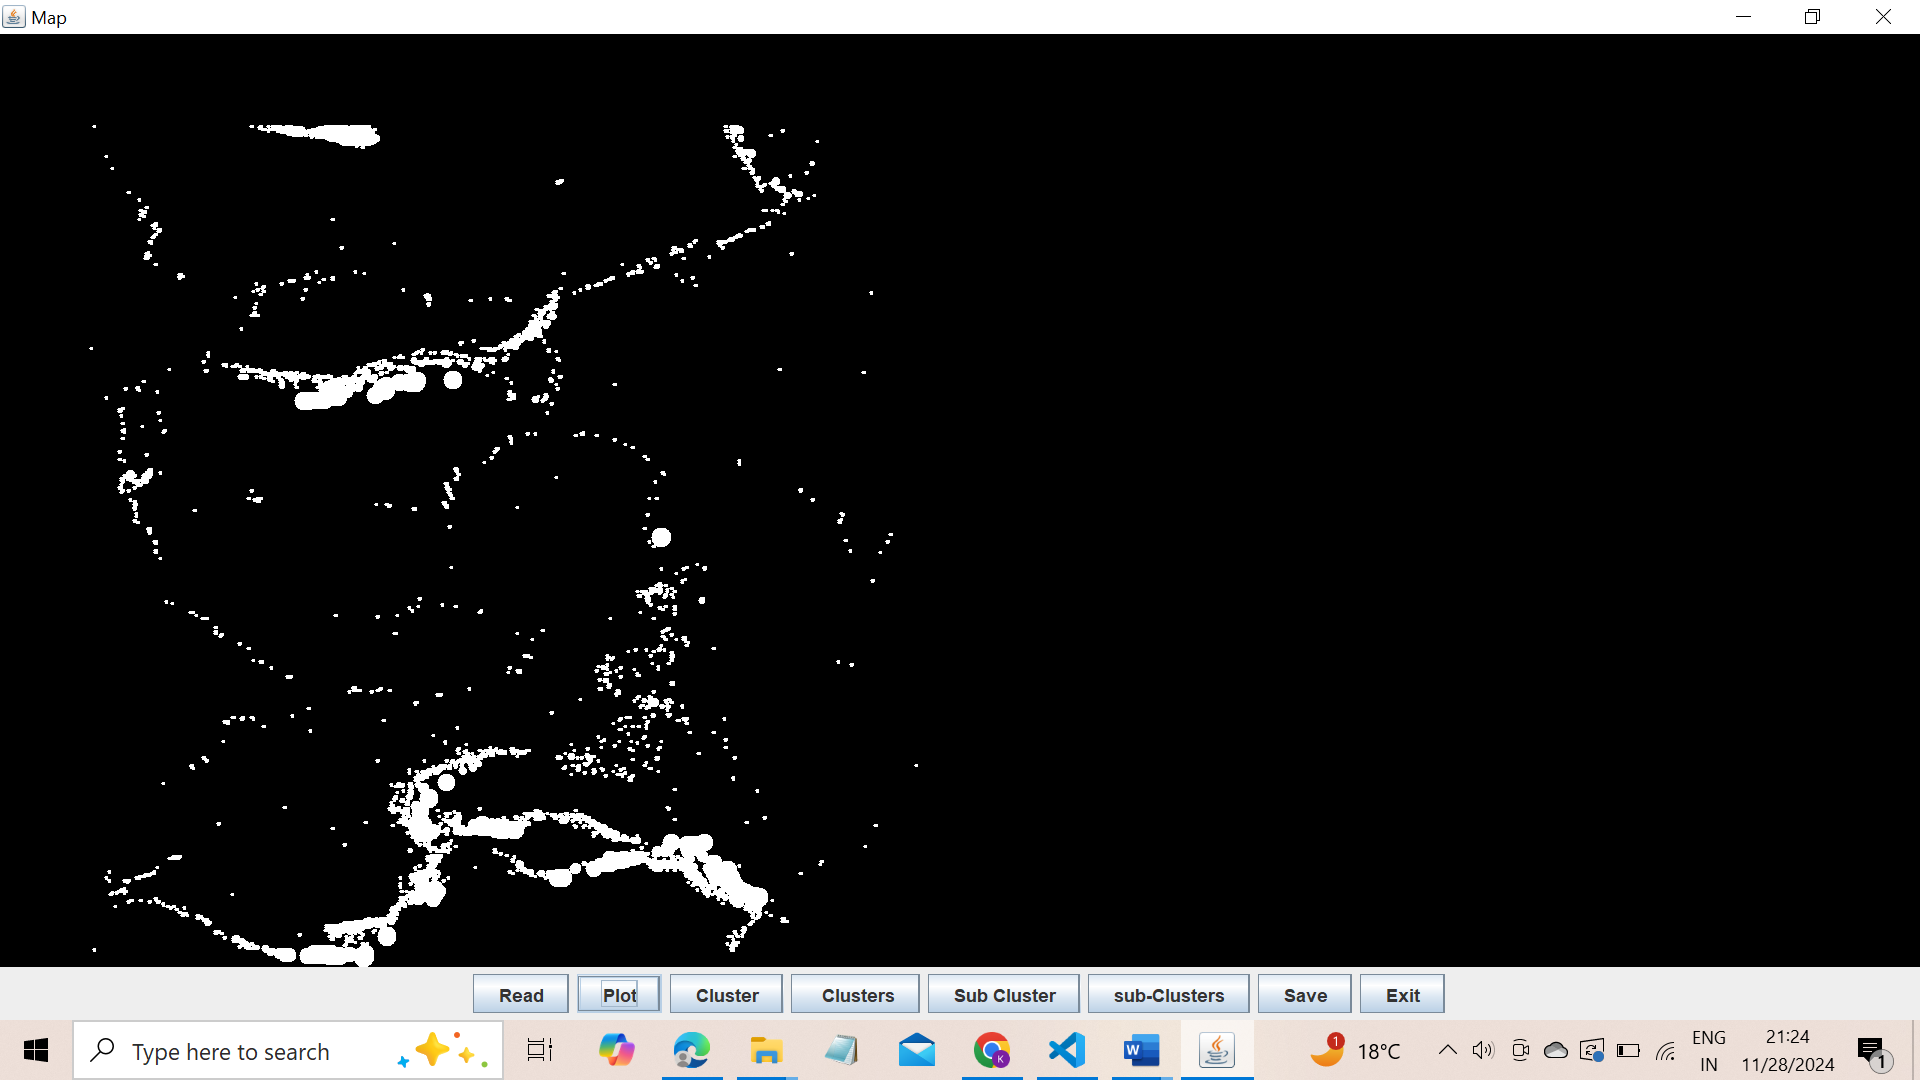
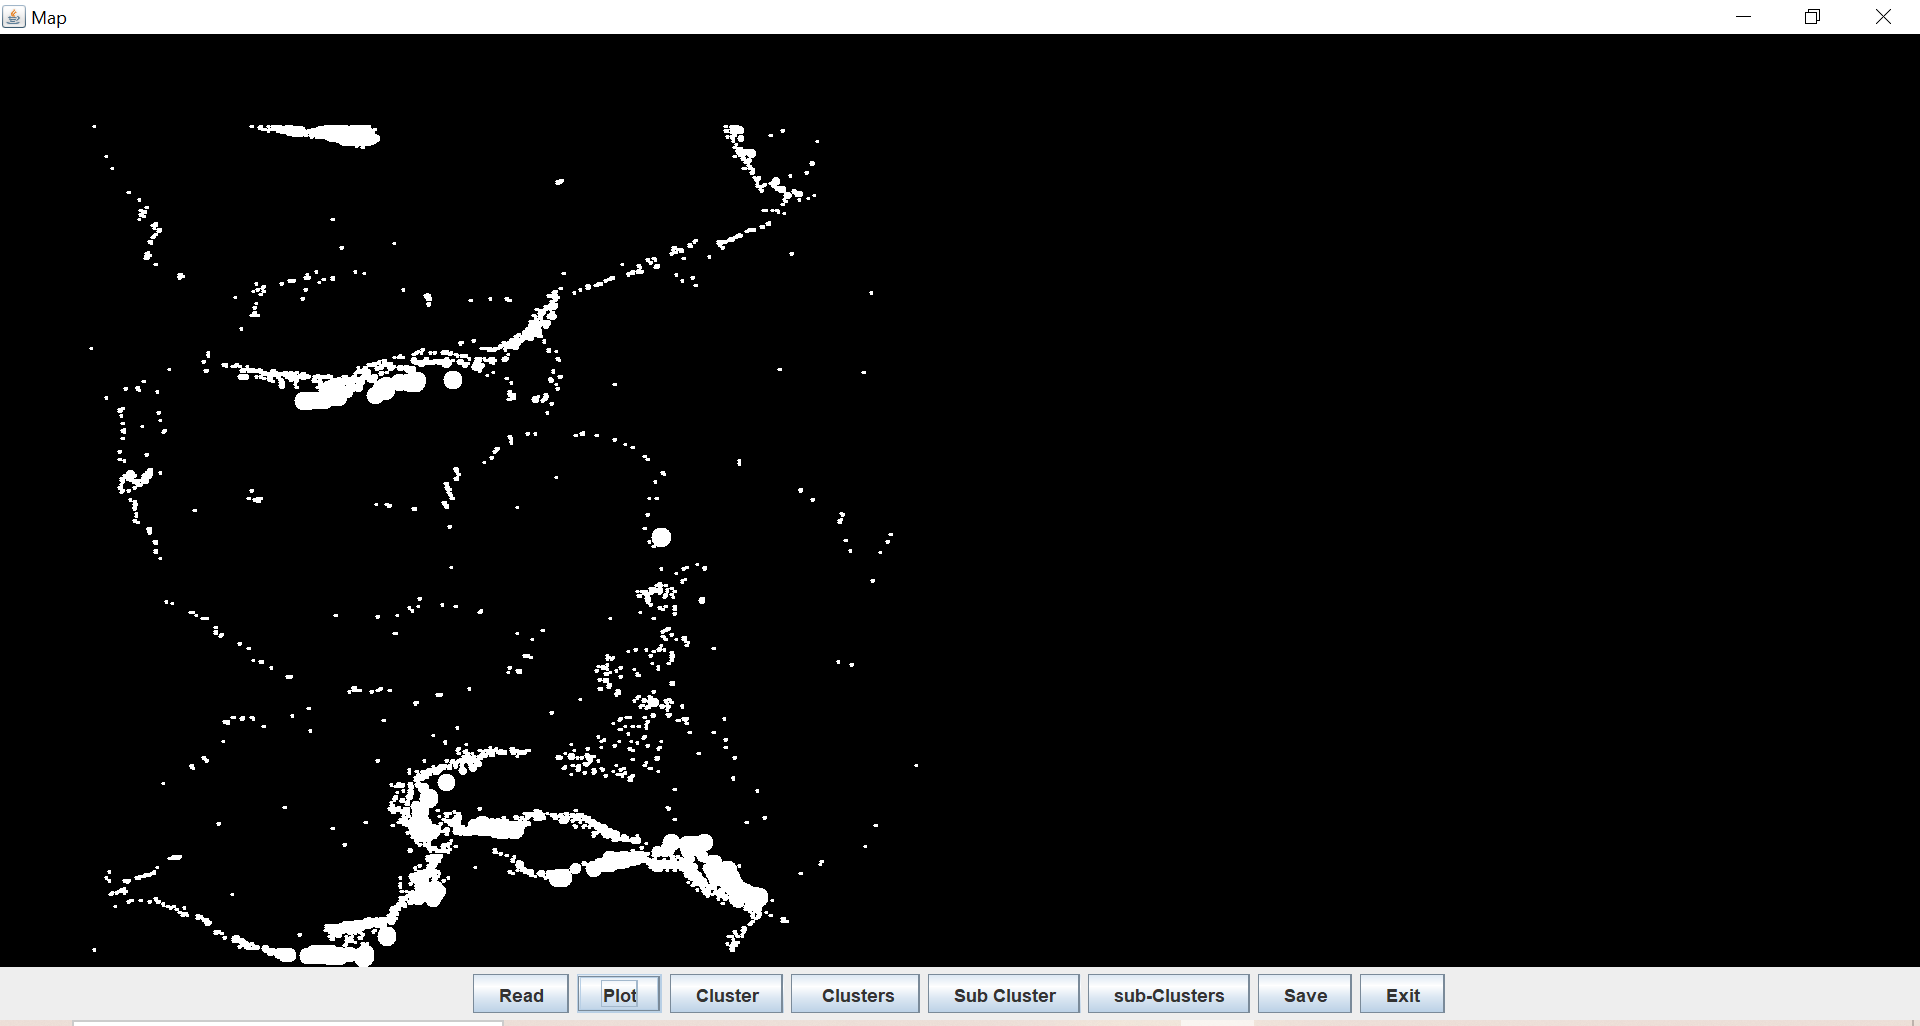
Add README and other changes2

diff --git a/README.md b/README.md
@@ -18,7 +18,7 @@ This Java Swing application reads earthquake data from a CSV file, performs clus
 Lat_lon_plot_4.java # Main Java file with all functionality
 eq_1.csv # Input data file (not provided here)
 plot1.png # Screenshot of raw data plotting
-plot2.png # Screenshot of clustered data visualization
+plot2.png & plot3.png # Screenshot of clustered data visualization
 Result.txt # Output after clustering
 
 ## 🖼 Screenshots
@@ -26,8 +26,9 @@ Result.txt # Output after clustering
 ### ➤ Plot 1: Raw Earthquake Data Points
 ![Plot 1](plot1.png)
 
-### ➤ Plot 2: Clustered Earthquake Data
+### ➤ Plot 2 & 3: Clustered Earthquake Data
 ![Plot 2](plot2.png)
+![Plot 3](plot3.png)
 
 ## 🚀 How to Run
 
